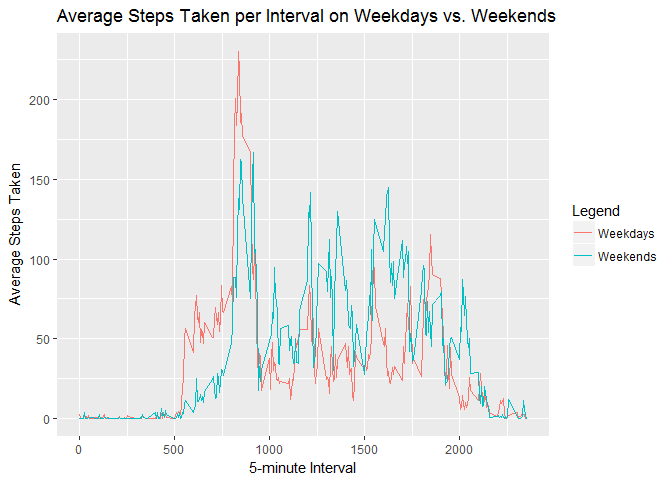
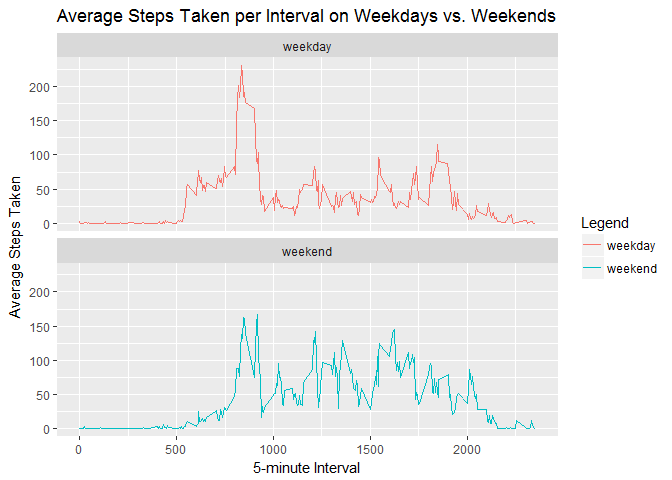
Peer Assessment 1 Third Commit

diff --git a/PA1_template.html b/PA1_template.html
@@ -275,34 +275,23 @@ head(pers.act.imp)</code></pre>
 <ol start="2" style="list-style-type: decimal">
 <li>Make a panel plot containing a time series plot (i.e. type = “l”) of the 5-minute interval (x-axis) and the average number of steps taken, averaged across all weekday days or weekend days (y-axis).</li>
 </ol>
-<pre class="r"><code>pers.act.imp.weekday &lt;- subset(pers.act.imp, dow == &quot;weekday&quot;)
-pers.int.weekday &lt;- aggregate(steps ~ interval, data = pers.act.imp.weekday, mean, na.rm = TRUE)
-head(pers.int.weekday)</code></pre>
-<pre><code>##   interval      steps
-## 1        0 2.25115304
-## 2        5 0.44528302
-## 3       10 0.17316562
-## 4       15 0.19790356
-## 5       20 0.09895178
-## 6       25 1.59035639</code></pre>
-<pre class="r"><code>pers.act.imp.weekend &lt;- subset(pers.act.imp, dow == &quot;weekend&quot;)
-pers.int.weekend &lt;- aggregate(steps ~ interval, data = pers.act.imp.weekend, mean, na.rm = TRUE)
-head(pers.int.weekend)</code></pre>
-<pre><code>##   interval       steps
-## 1        0 0.214622642
-## 2        5 0.042452830
-## 3       10 0.016509434
-## 4       15 0.018867925
-## 5       20 0.009433962
-## 6       25 3.511792453</code></pre>
-<pre class="r"><code>ggplot(pers.int.weekday, aes(x=interval, y=steps)) +
-       geom_line(aes(color=&quot;Weekdays&quot;)) +
-       geom_line(data=pers.int.weekend, aes(color=&quot;Weekends&quot;)) +
+<pre class="r"><code>pers.int.week &lt;- aggregate(steps ~ interval + dow, data = pers.act.imp, mean, na.rm = TRUE)
+head(pers.int.week)</code></pre>
+<pre><code>##   interval     dow      steps
+## 1        0 weekday 2.25115304
+## 2        5 weekday 0.44528302
+## 3       10 weekday 0.17316562
+## 4       15 weekday 0.19790356
+## 5       20 weekday 0.09895178
+## 6       25 weekday 1.59035639</code></pre>
+<pre class="r"><code>ggplot(pers.int.week, aes(x=interval, y=steps, color = dow)) +
+       geom_line() +
+       facet_wrap(~dow, ncol = 1, nrow=2) +
        labs(title = &quot;Average Steps Taken per Interval on Weekdays vs. Weekends&quot;, 
             x = &quot;5-minute Interval&quot;,
             y = &quot;Average Steps Taken&quot;,
             color = &quot;Legend&quot;)</code></pre>
[2 lines of base64/hex data omitted]
 </div>
 
 

diff --git a/PA1_template.md b/PA1_template.md
@@ -244,41 +244,24 @@ head(pers.act.imp)
 
 
 ```r
-pers.act.imp.weekday <- subset(pers.act.imp, dow == "weekday")
-pers.int.weekday <- aggregate(steps ~ interval, data = pers.act.imp.weekday, mean, na.rm = TRUE)
-head(pers.int.weekday)
+pers.int.week <- aggregate(steps ~ interval + dow, data = pers.act.imp, mean, na.rm = TRUE)
+head(pers.int.week)
 ```
 
 ```
-##   interval      steps
-## 1        0 2.25115304
-## 2        5 0.44528302
-## 3       10 0.17316562
-## 4       15 0.19790356
-## 5       20 0.09895178
-## 6       25 1.59035639
-```
-
-```r
-pers.act.imp.weekend <- subset(pers.act.imp, dow == "weekend")
-pers.int.weekend <- aggregate(steps ~ interval, data = pers.act.imp.weekend, mean, na.rm = TRUE)
-head(pers.int.weekend)
-```
-
-```
-##   interval       steps
-## 1        0 0.214622642
-## 2        5 0.042452830
-## 3       10 0.016509434
-## 4       15 0.018867925
-## 5       20 0.009433962
-## 6       25 3.511792453
+##   interval     dow      steps
+## 1        0 weekday 2.25115304
+## 2        5 weekday 0.44528302
+## 3       10 weekday 0.17316562
+## 4       15 weekday 0.19790356
+## 5       20 weekday 0.09895178
+## 6       25 weekday 1.59035639
 ```
 
 ```r
-ggplot(pers.int.weekday, aes(x=interval, y=steps)) +
-       geom_line(aes(color="Weekdays")) +
-       geom_line(data=pers.int.weekend, aes(color="Weekends")) +
+ggplot(pers.int.week, aes(x=interval, y=steps, color = dow)) +
+       geom_line() +
+       facet_wrap(~dow, ncol = 1, nrow=2) +
        labs(title = "Average Steps Taken per Interval on Weekdays vs. Weekends", 
             x = "5-minute Interval",
             y = "Average Steps Taken",
